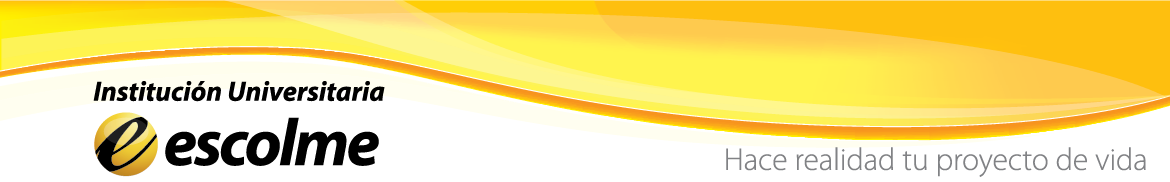
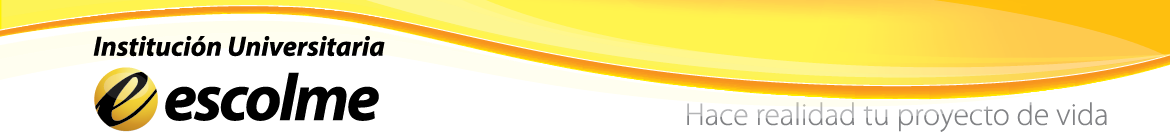
actualizando en mac2

diff --git a/css/theme.css b/css/theme.css
@@ -3,7 +3,7 @@ html {
 }
 body {
 	position: relative;
-	padding-top: 182px;
+	padding-top: 45px;
 	
 	-webkit-font-smoothing: antialiased;
 	font-size: 14px;
@@ -144,9 +144,9 @@ input[type="color"]:focus,
 -------------------------------------------------- */
 #contenedor-navbar{
 
-	background: #F5F6F7 url(../img/headerpgsica2.png) no-repeat center top;
+	background: #F5F6F7 url(../img/headersica1.png) no-repeat center top;
 	background-size:100% 100%;
-	min-height: 182px;
+	min-height: 45px;
 	-webkit-box-shadow: 5px 0 3px 0 rgba(0, 0, 0, 0.065) , -55px 0 3px  0 rgba(0, 0, 0, 0.065);
 	-moz-box-shadow: 5px 0 3px 0 rgba(0, 0, 0, 0.065) , -5px 0 3px  0 rgba(0, 0, 0, 0.065);
 	box-shadow: 5px 0 3px 0 rgba(0, 0, 0, 0.065) , -5px 0 3px  0 rgba(0, 0, 0, 0.065);
@@ -158,7 +158,7 @@ input[type="color"]:focus,
     opacity: 0.96;
 }
 .navbar-inner {
-	height: 80px !important;
+	height: 45px !important;
 	border-bottom:none;
 	background: #DDDCE2 url(../img/content_bg.jpg) repeat left top;
     filter: none;
@@ -170,7 +170,7 @@ input[type="color"]:focus,
 	text-shadow: none;
 }
 .navbar .nav.pull-right {
-	top: 10px;
+	top: 4px;
 	/*margin-right: 40px;*/
 }
 .navbar .nav > li > a {

diff --git a/css/bootstrap.css b/css/bootstrap.css
@@ -3386,9 +3386,9 @@ input[type="submit"].btn.btn-mini {
 .navbar .brand {
   float: left;
   display: block;
-  padding: 10px 20px 10px;
-  margin-left: -20px;
-  font-size: 20px;
+  padding: 13px 20px 10px;
+  margin-left: 0;
+  font-size: 19px;
   font-weight: 200;
   color: #777777;
   text-shadow: 0 1px 0 #ffffff;
@@ -3520,9 +3520,9 @@ input[type="submit"].btn.btn-mini {
 }
 .navbar-fixed-top .navbar-inner,
 .navbar-static-top .navbar-inner {
-  -webkit-box-shadow: 0 1px 10px rgba(0,0,0,.1);
+/*  -webkit-box-shadow: 0 1px 10px rgba(0,0,0,.1);
   -moz-box-shadow: 0 1px 10px rgba(0,0,0,.1);
-  box-shadow: 0 1px 10px rgba(0,0,0,.1);
+  box-shadow: 0 1px 10px rgba(0,0,0,.1);*/
 }
 .navbar-fixed-bottom {
   bottom: 0;

diff --git a/index.html b/index.html
@@ -33,7 +33,7 @@
                 <span class="icon-bar"></span>
             </a>
             <a class="brand" href="index.html">
-                
+                Portales Escolme
             </a>
             <div class="nav-collapse collapse">
                 <ul class="nav pull-right">

diff --git a/vistas/inscripcion.html b/vistas/inscripcion.html
@@ -4,6 +4,11 @@
     }
 </style>
 <div class="row-fluid" >
+    <div class="span12">
+        <img src="img/headerpgsica2.png" >
+    </div>
+</div>
+<div class="row-fluid" >
 <div class="span6 offset3">
     <form class="form-horizontal" >
         <fieldset>
